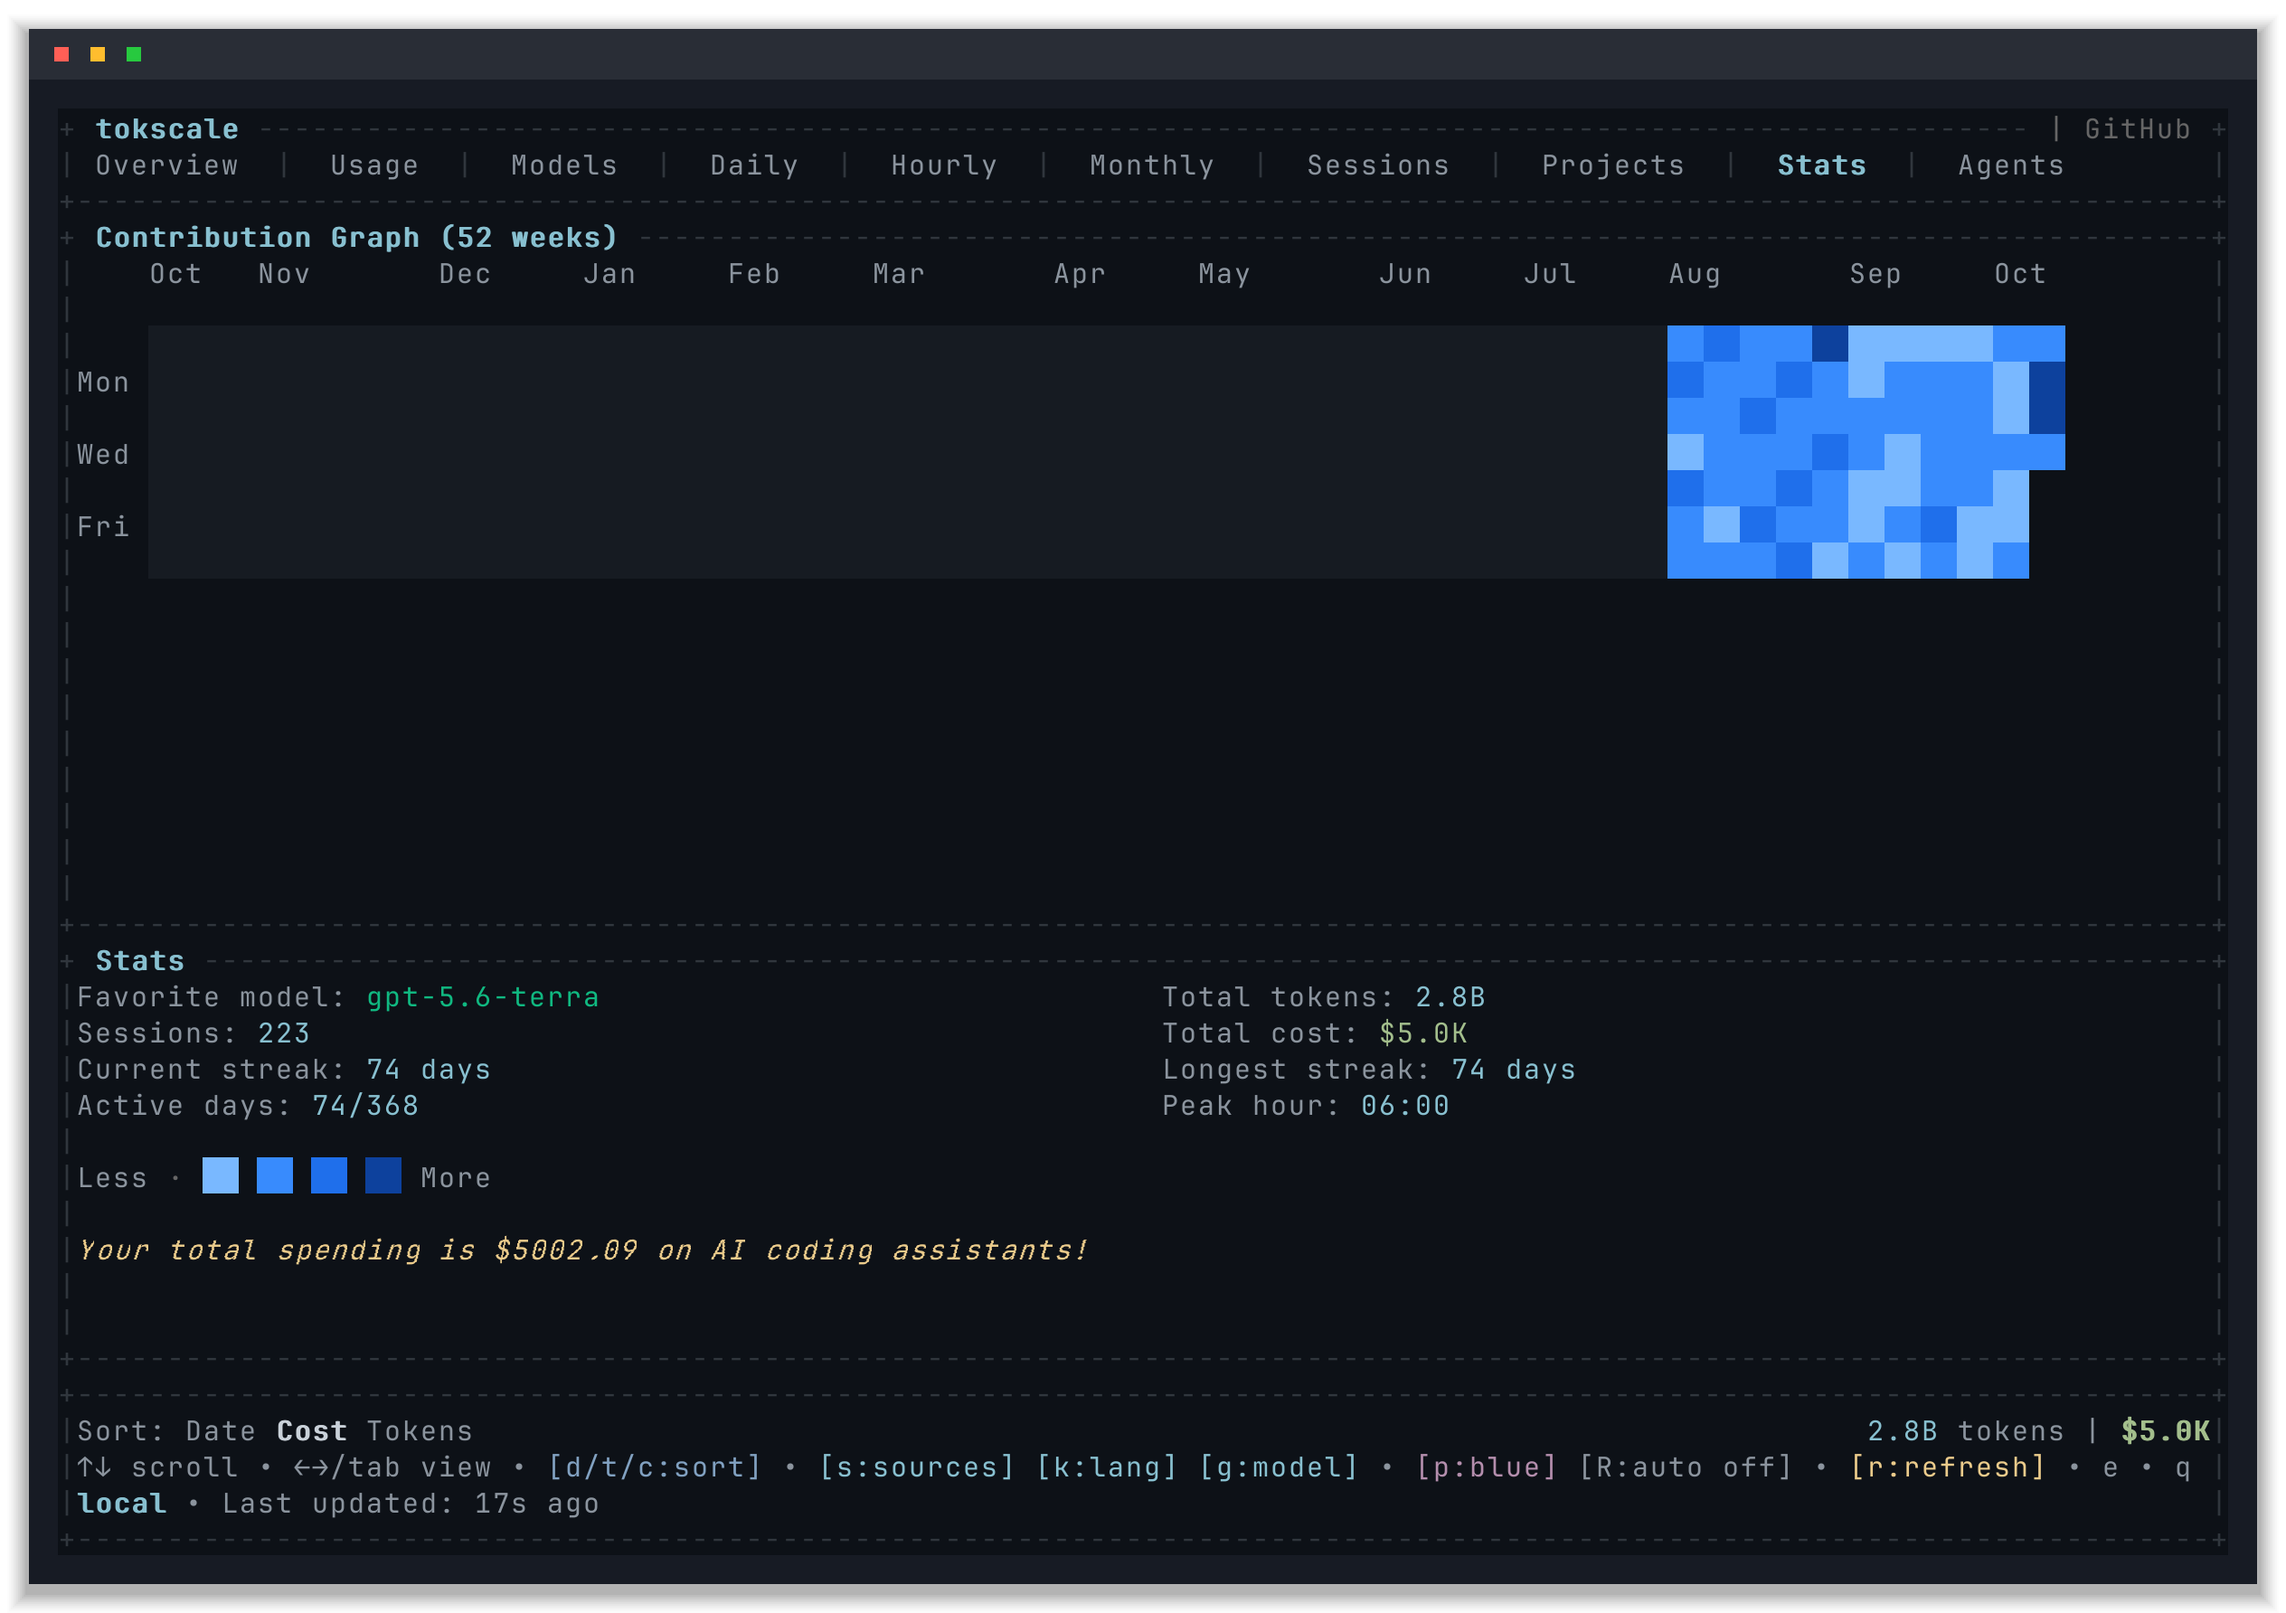
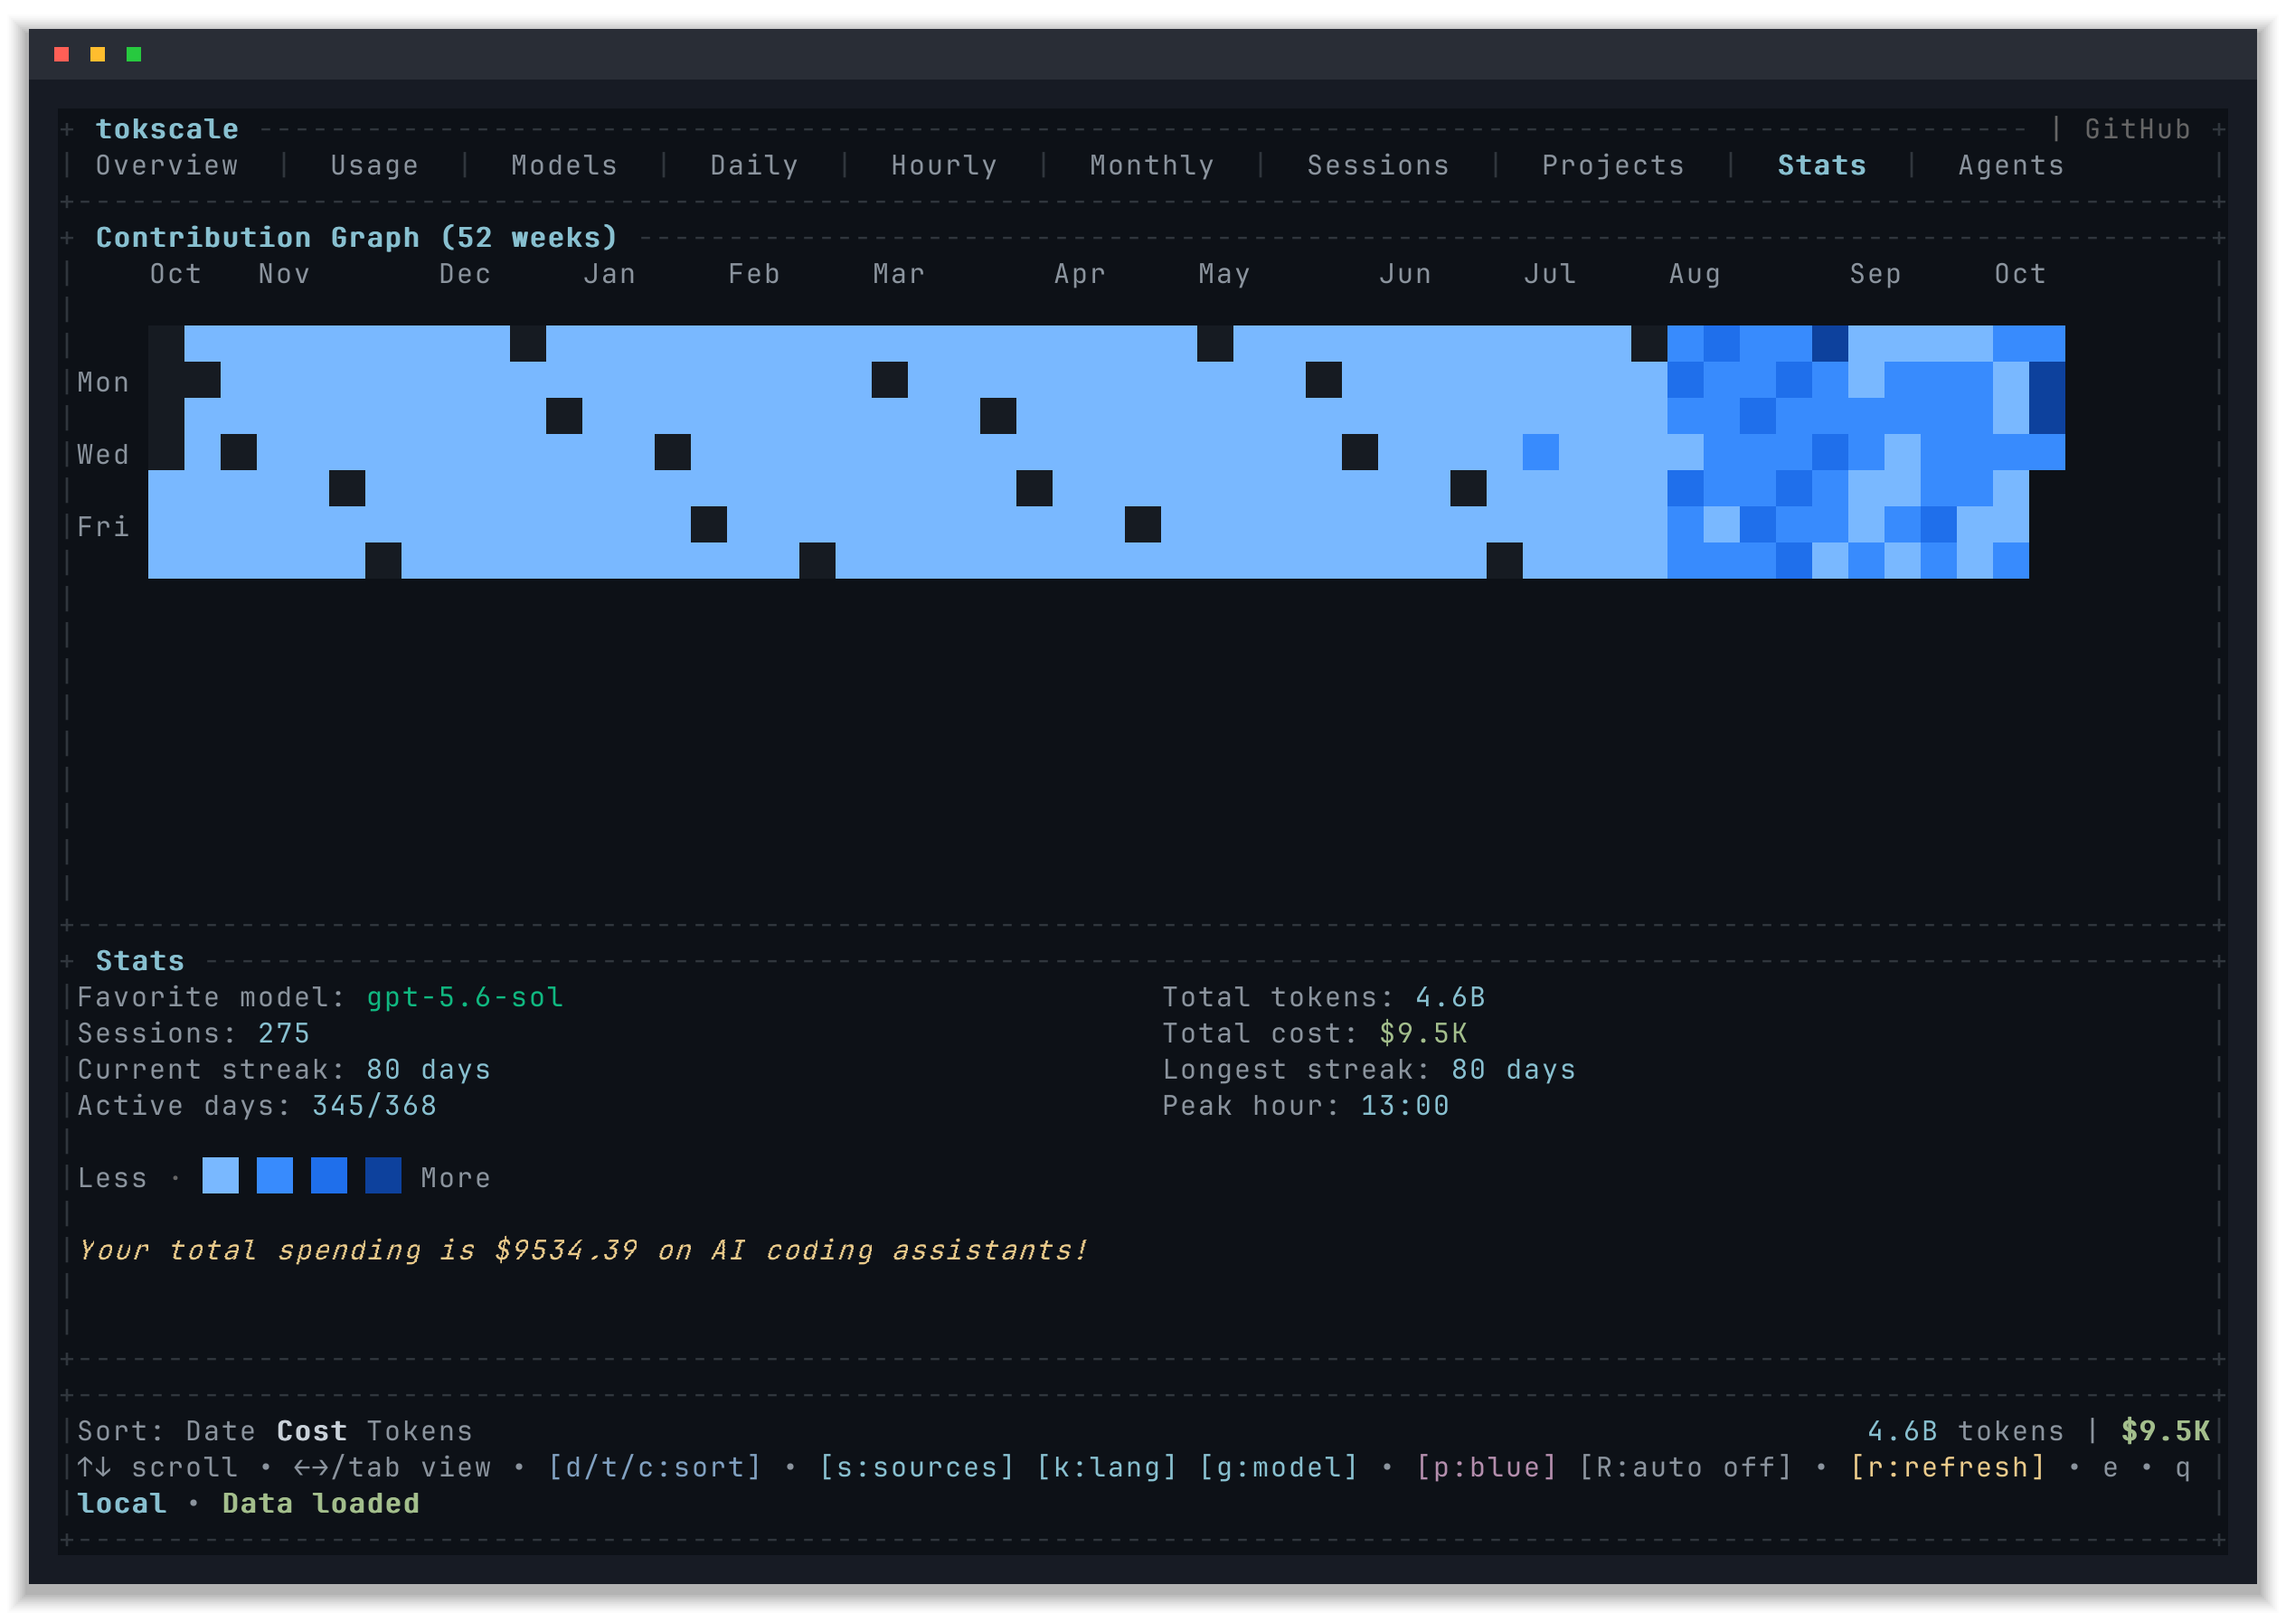
docs(readme): expand TUI screenshot gallery

diff --git a/README.ja.md b/README.ja.md
@@ -44,6 +44,10 @@
 |:---:|:---:|
 | ![TUI Daily Summary](.github/assets/tui-daily.png) | ![TUI Stats](.github/assets/tui-stats.png) | 
 
+| Session Details | Hourly |
+|:---:|:---:|
+| ![TUI Session Details](.github/assets/tui-sessions.png) | ![TUI Hourly](.github/assets/tui-hourly.png) |
+
 | Frontend (3D Contributions Graph) | Wrapped 2025 |
 |:---:|:---:|
 | <a href="https://tokscale.ai"><img alt="Frontend (3D Contributions Graph)" src=".github/assets/frontend-contributions-graph.png" width="700px" /></a> | <a href="#wrapped-2025"><img alt="Wrapped 2025" src=".github/assets/wrapped-2025-agents.png" width="700px" /></a> |
@@ -291,10 +295,6 @@ tokscale models --json > report.json   # ファイルに保存
 ### TUI機能
 
 インタラクティブTUIモードは以下を提供します：
-
-セッションビューでは、各セッションのメタデータ、アクティビティ、トークン内訳、コストを確認できます：
-
-![TUIセッション詳細](.github/assets/tui-sessions.png)
 
 - **10のビュー**: 概要（チャート + トップモデル）、Usage（サブスクリプションクォータ）、モデル、日別、時間別、月別、セッション、プロジェクト（ワークスペース別ロールアップ）、統計（貢献グラフ）、エージェント。プロジェクトでは、Codex Desktop の通常のチャットディレクトリ（`Documents/Codex/YYYY-MM-DD/<chat>`）はセッション数・トークン・コストを保持したまま **Codex Chat** に統合され、Git リポジトリを含むディレクトリは分離されたままになります。分単位の Minutely ビューはデフォルトで非表示で、`settings.json` の `minutelyTabEnabled` で有効化できます — [設定](#設定)を参照
 - **キーボードナビゲーション**:

diff --git a/README.ko.md b/README.ko.md
@@ -44,6 +44,10 @@
 |:---:|:---:|
 | ![TUI Daily Summary](.github/assets/tui-daily.png) | ![TUI Stats](.github/assets/tui-stats.png) | 
 
+| Session Details | Hourly |
+|:---:|:---:|
+| ![TUI Session Details](.github/assets/tui-sessions.png) | ![TUI Hourly](.github/assets/tui-hourly.png) |
+
 | Frontend (3D Contributions Graph) | Wrapped 2025 |
 |:---:|:---:|
 | <a href="https://tokscale.ai"><img alt="Frontend (3D Contributions Graph)" src=".github/assets/frontend-contributions-graph.png" width="700px" /></a> | <a href="#wrapped-2025"><img alt="Wrapped 2025" src=".github/assets/wrapped-2025-agents.png" width="700px" /></a> |
@@ -287,10 +291,6 @@ tokscale models --json > report.json   # 파일로 저장
 ### TUI 기능
 
 인터랙티브 TUI 모드는 다음을 제공합니다:
-
-세션 뷰에서 세션별 메타데이터, 활동, 토큰 내역, 비용을 확인할 수 있습니다:
-
-![TUI 세션 상세](.github/assets/tui-sessions.png)
 
 - **10개 뷰**: 개요 (차트 + 상위 모델), Usage (구독 할당량), 모델, 일별, 시간별, 월별, 세션, 프로젝트 (워크스페이스별 집계), 통계 (기여 그래프), 에이전트. 프로젝트 뷰에서는 Codex Desktop의 일반 채팅 디렉터리(`Documents/Codex/YYYY-MM-DD/<chat>`)가 세션 수·토큰·비용을 보존한 채 **Codex Chat**으로 통합되며, Git 저장소를 포함한 디렉터리는 별도로 유지됩니다. 분 단위 뷰(Minutely)는 기본적으로 숨겨져 있으며 `settings.json`의 `minutelyTabEnabled`로 활성화할 수 있습니다 — [설정](#설정) 참조
 - **키보드 내비게이션**:

diff --git a/README.md b/README.md
@@ -44,6 +44,10 @@
 |:---:|:---:|
 | ![TUI Daily Summary](.github/assets/tui-daily.png) | ![TUI Stats](.github/assets/tui-stats.png) | 
 
+| Session Details | Hourly |
+|:---:|:---:|
+| ![TUI Session Details](.github/assets/tui-sessions.png) | ![TUI Hourly](.github/assets/tui-hourly.png) |
+
 | Frontend (3D Contributions Graph) | Wrapped 2025 |
 |:---:|:---:|
 | <a href="https://tokscale.ai"><img alt="Frontend (3D Contributions Graph)" src=".github/assets/frontend-contributions-graph.png" width="700px" /></a> | <a href="#wrapped-2025"><img alt="Wrapped 2025" src=".github/assets/wrapped-2025-agents.png" width="700px" /></a> |
@@ -289,10 +293,6 @@ tokscale models --json > report.json   # Save to file
 ### TUI Features
 
 The interactive TUI mode provides:
-
-Inspect session metadata, activity, token breakdowns, and cost from the Sessions view:
-
-![TUI Session Details](.github/assets/tui-sessions.png)
 
 - **10 Views**: Overview (chart + top models), Usage (subscription quotas), Models, Daily, Hourly, Monthly, Sessions, Projects (per-workspace rollups), Stats (contribution graph), Agents. In Projects, Codex Desktop's ordinary chat directories (`Documents/Codex/YYYY-MM-DD/<chat>`) are combined into **Codex Chat**, preserving their session count, tokens, and cost; directories containing a Git repository remain separate. A per-minute view (Minutely) is hidden by default and can be enabled with `minutelyTabEnabled` in `settings.json` — see [Configuration](#configuration)
 - **Keyboard Navigation**:

diff --git a/README.zh-cn.md b/README.zh-cn.md
@@ -45,6 +45,10 @@
 |:---:|:---:|
 | ![TUI Daily Summary](.github/assets/tui-daily.png) | ![TUI Stats](.github/assets/tui-stats.png) | 
 
+| Session Details | Hourly |
+|:---:|:---:|
+| ![TUI Session Details](.github/assets/tui-sessions.png) | ![TUI Hourly](.github/assets/tui-hourly.png) |
+
 | Frontend (3D Contributions Graph) | Wrapped 2025 |
 |:---:|:---:|
 | <a href="https://tokscale.ai"><img alt="Frontend (3D Contributions Graph)" src=".github/assets/frontend-contributions-graph.png" width="700px" /></a> | <a href="#wrapped-2025"><img alt="Wrapped 2025" src=".github/assets/wrapped-2025-agents.png" width="700px" /></a> |
@@ -288,10 +292,6 @@ tokscale models --json > report.json   # 保存到文件
 ### TUI 功能
 
 交互式 TUI 模式提供：
-
-在会话视图中，可查看每个会话的元数据、活动、Token 明细和成本：
-
-![TUI 会话详情](.github/assets/tui-sessions.png)
 
 - **10 个视图**：概览（图表 + 热门模型）、Usage（订阅配额）、模型、每日、每时、每月、会话、项目（按工作区汇总）、统计（贡献图）、代理。在项目视图中，Codex Desktop 的普通聊天目录（`Documents/Codex/YYYY-MM-DD/<chat>`）会被合并为 **Codex Chat**，并保留其会话数、token 和成本；包含 Git 仓库的目录保持独立。按分钟视图（Minutely）默认隐藏，可在 `settings.json` 中通过 `minutelyTabEnabled` 启用 —— 参见[配置](#配置)
 - **键盘导航**：
